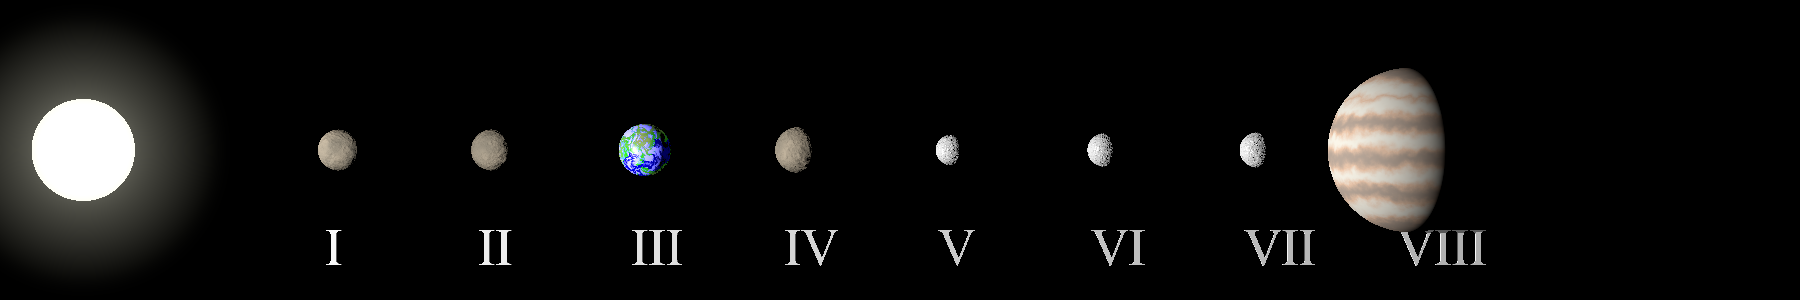
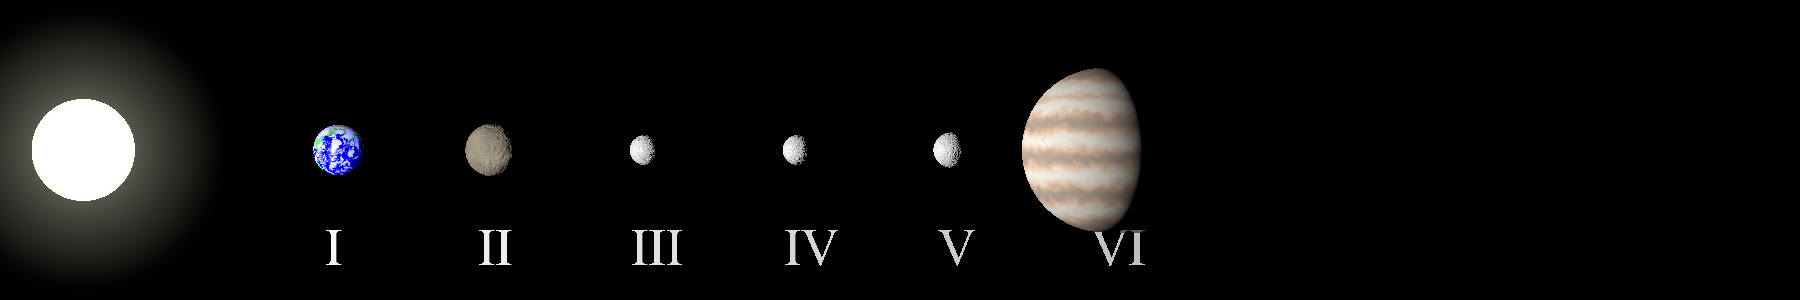
better ourput files: roman numbers, mass limit attemp to do

diff --git a/acretee.cc b/acretee.cc
@@ -501,10 +501,13 @@ struct BandMaterial {
 
 int generate_and_render_povray(std::vector<Nucleus> planets, int planetnum) ;
 
-void export_planets_to_csv(std::vector<Nucleus>  planets, std::string filename);
+void export_planets_to_csv(std::vector<Nucleus>  planets, std::string filename, double masslimit);
 
 int main(int ac, char *av[])
 {
+	int planetnum=0;
+		int m=0;
+	
     for (int i = 1; i < ac; i++) {
         if (strcmp(av[i], "-h") == 0 || strcmp(av[i], "--help") == 0) {
             std::cout << "Käyttö: " << av[0] << " [asetukset]\n";
@@ -565,6 +568,10 @@ int main(int ac, char *av[])
 
     double ACCRETION_FRACTION_PER_ITERATION = 0.001;
     int MAX_ACCRETION_ITERATIONS = 1000000;
+
+
+	char romans1[50][128]={"I", "II", "III", "IV", "V", "VI", "VII", "VIII", "IX", "X", "XI", "XI", "XII", "XIII", "XIV", "XV", "XVI"};
+
 
     for (int i = 1; i < ac; i++) {
         if (strcmp(av[i], "-dump") == 0) {
@@ -935,8 +942,9 @@ int main(int ac, char *av[])
     std::sort(planets.begin(), planets.end());
 
 
-
-	int planetnum=planets.size();
+	//int planetnum;
+	
+	planetnum=planets.size();
 
 //  printf(" %i ", planetnum);
   
@@ -950,7 +958,7 @@ int main(int ac, char *av[])
 	
    generate_and_render_povray(planets, planetnum);
 
-	export_planets_to_csv(planets,(std::string) "planets.csv");
+	export_planets_to_csv(planets,(std::string) "planets.csv", 0.02);
 
     std::cout << "\n--- Planeet system ---\n";
     std::cout << "Seed of simulation: " << seed << "\n";
@@ -973,6 +981,7 @@ int main(int ac, char *av[])
         const Nucleus &p = planets[i];
 
         if ((p.mass * SOLAR_MASS_TO_EARTH_MASS) < 0.03) {
+		
             continue;
         }
 
@@ -983,10 +992,12 @@ int main(int ac, char *av[])
         double total_mass_for_fractions_planet = total_solid_mass_planet + gas_mass_planet;
         if (total_mass_for_fractions_planet == 0) total_mass_for_fractions_planet = p.mass;
 
-        std::cout << std::left << std::setw(5) << (i + 1)
+       // std::cout << std::left << std::setw(5) << (i + 1)
+       std::cout << romans1[m] << " "
                   << std::left << std::setw(12) << std::fixed << std::setprecision(3) << p.axis
                   << std::left << std::setw(15) << std::fixed << std::setprecision(3) << (p.mass * SOLAR_MASS_TO_EARTH_MASS);
 
+		m++;
         std::string planet_type_str;
         if (p.type == Nucleus::gas_p) planet_type_str = "gas";
         else if (p.type == Nucleus::ice_p) planet_type_str = "ice";
@@ -1461,12 +1472,16 @@ else {
 
 
 
-void export_planets_to_csv(std::vector<Nucleus> planets,  std::string filename) {
+void export_planets_to_csv(std::vector<Nucleus> planets,  std::string filename, double masslimit) {
 
 	Nucleus planet;
-	
+	int m=0;
     int n=0;
-	int planetnum=planets.size();
+	int planetnum=0;
+	
+	char romans1[50][128]={"I", "II", "III", "IV", "V", "VI", "VII", "VIII", "IX", "X", "XI", "XI", "XII", "XIII", "XIV", "XV", "XVI"};
+
+	planetnum=planets.size();
 
     std::ofstream csv_file(filename);
 
@@ -1481,9 +1496,11 @@ void export_planets_to_csv(std::vector<Nucleus> planets,  std::string filename) 
     }
 
     // Write CSV header
-    csv_file << "radius_au,eccentricity,mass_mearths,planet_type,p_iron,p_rock,p_ice,p_gas, radius_km,teq_k\n";
+    csv_file << "num, radius_au,eccentricity,mass_mearths,planet_type,p_iron,p_rock,p_ice,p_gas, radius_km,teq_k\n";
 	
 	printf("\n %i ", planetnum);
+	
+	m=0;
 	
 	for (n=0;n<planetnum;n++)
 	{
@@ -1494,6 +1511,9 @@ void export_planets_to_csv(std::vector<Nucleus> planets,  std::string filename) 
             //     << planet.eccen << ",";
      
              double mass_earth_masses = planet.mass * SOLAR_MASS_TO_EARTH_MASS;
+
+		if(mass_earth_masses>masslimit)
+		{
 
         double total_solid_mass = planet.accumulated_iron_mass + planet.accumulated_rock_mass + planet.accumulated_ice_mass;
         double gas_mass = planet.mass - total_solid_mass;
@@ -1523,7 +1543,7 @@ void export_planets_to_csv(std::vector<Nucleus> planets,  std::string filename) 
             case Nucleus::gas_p:  planet_type_str = "Giant"; break;
         }
 
-        csv_file << std::fixed << std::setprecision(6)
+        csv_file << romans1[m]<< ","<< std::fixed << std::setprecision(6)
                  << planet.axis << ","
                  << planet.eccen << ","
                  << mass_earth_masses << ","
@@ -1535,6 +1555,10 @@ void export_planets_to_csv(std::vector<Nucleus> planets,  std::string filename) 
 				 << std::setprecision(2)
 				 <<	round(planet_radius_km)<<","
 				 <<	round(planet_equilibrium_temperature)<< "\n";
+     
+			m++;
+		
+		}
      
      
 		}
